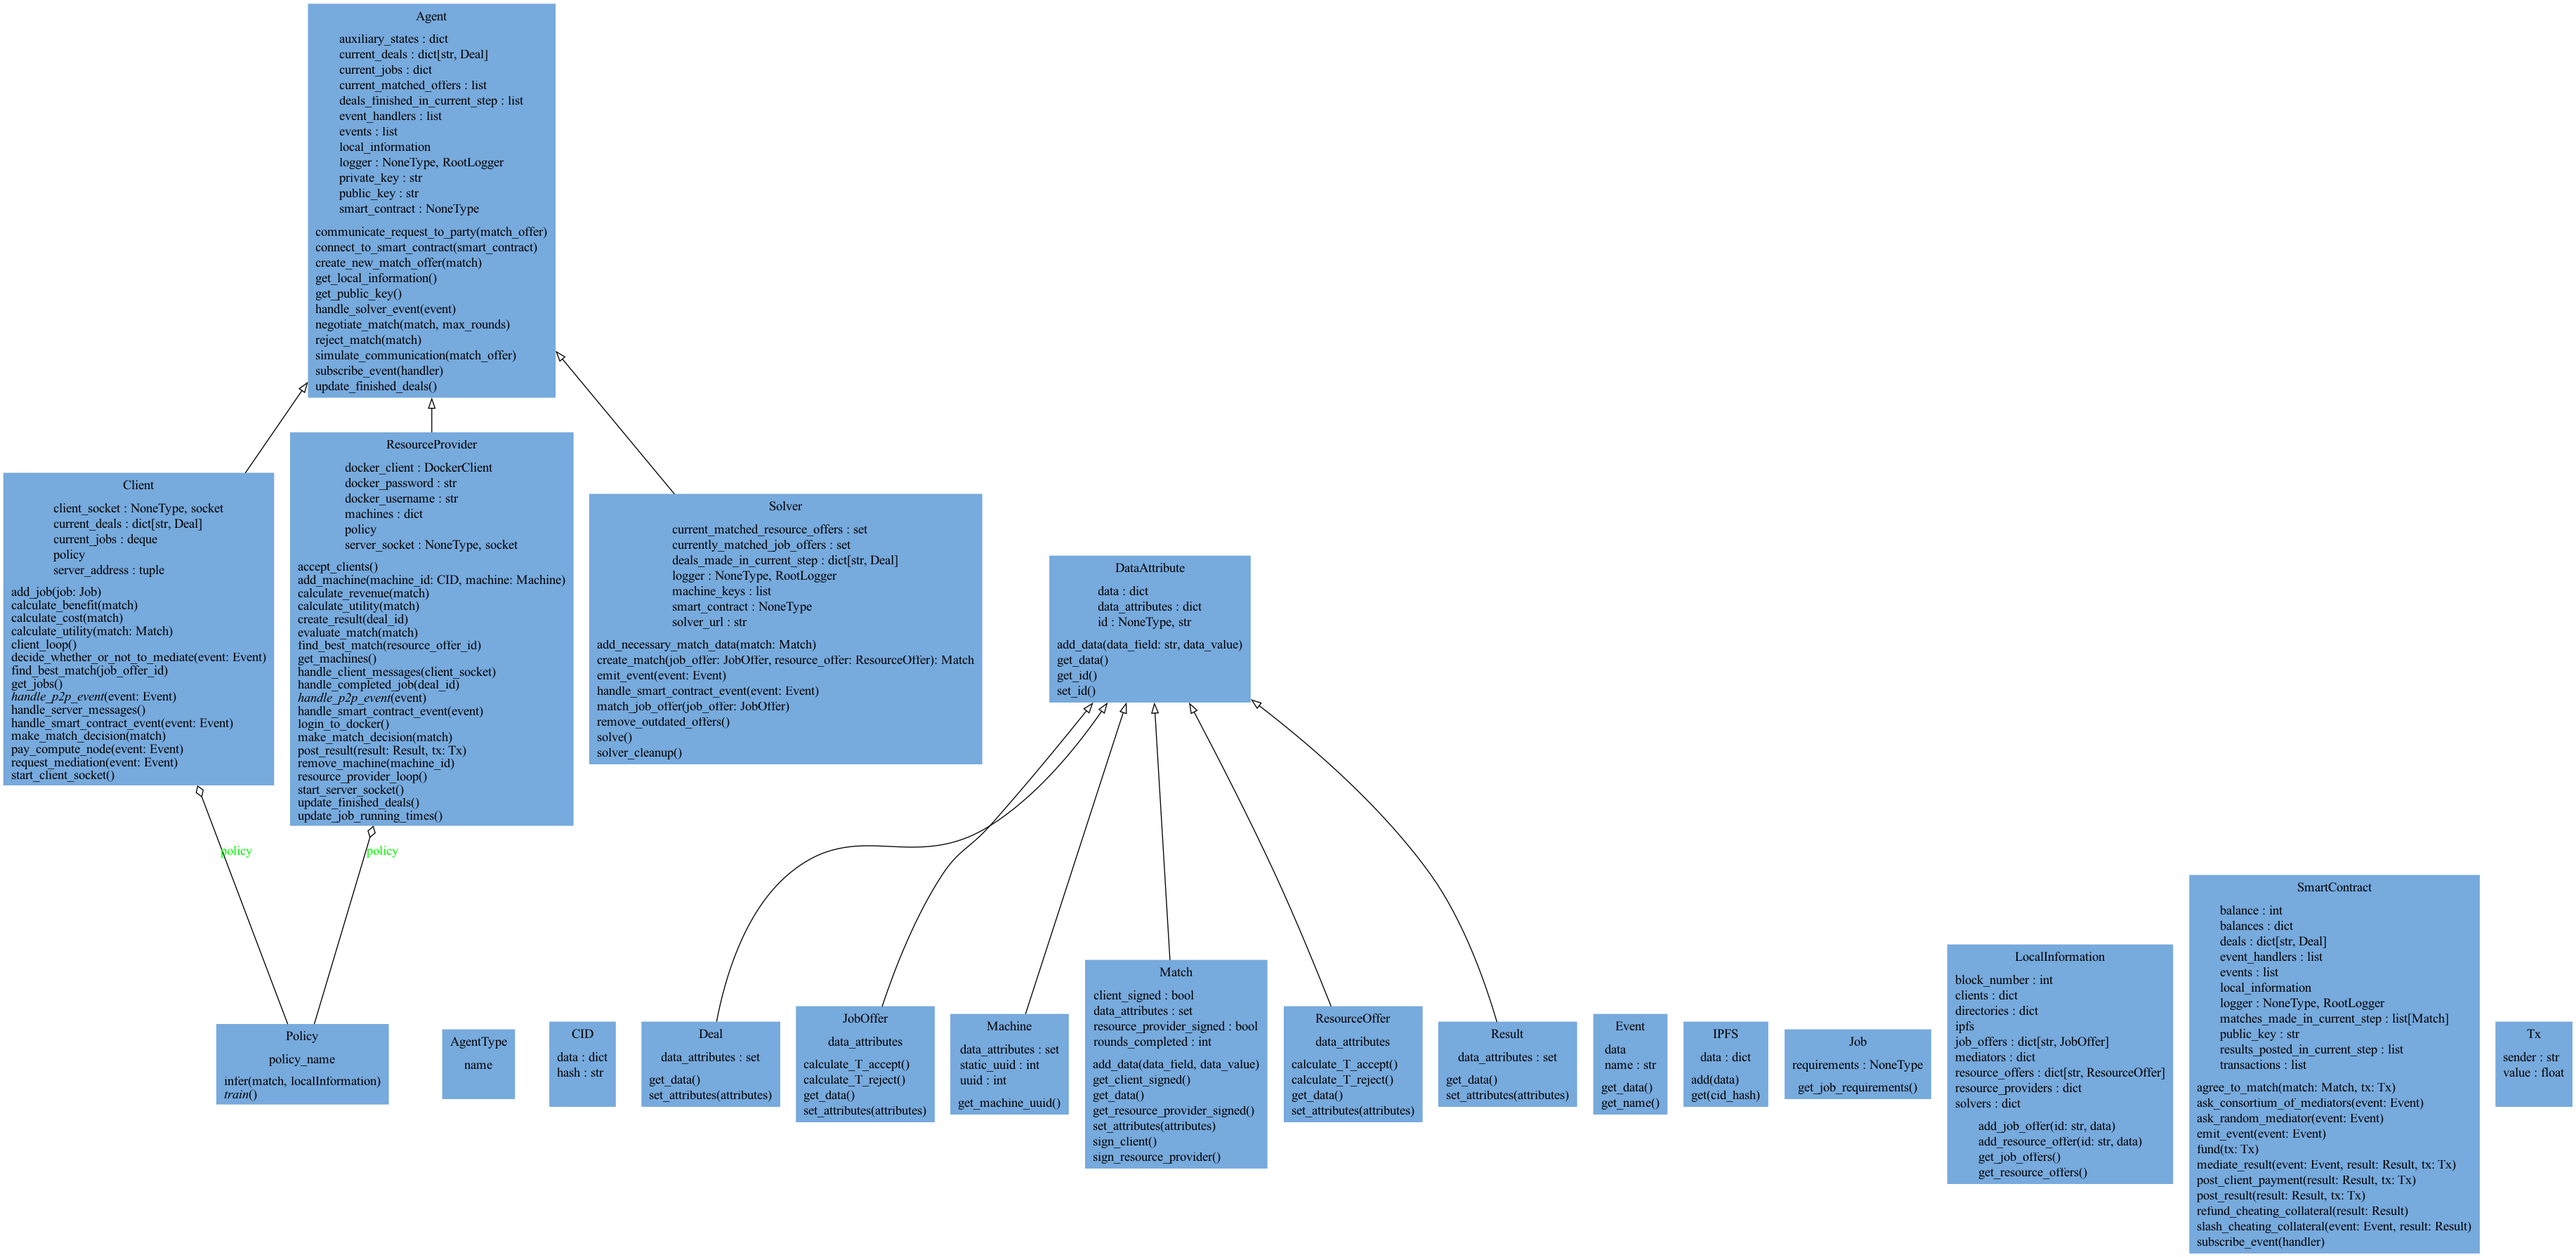
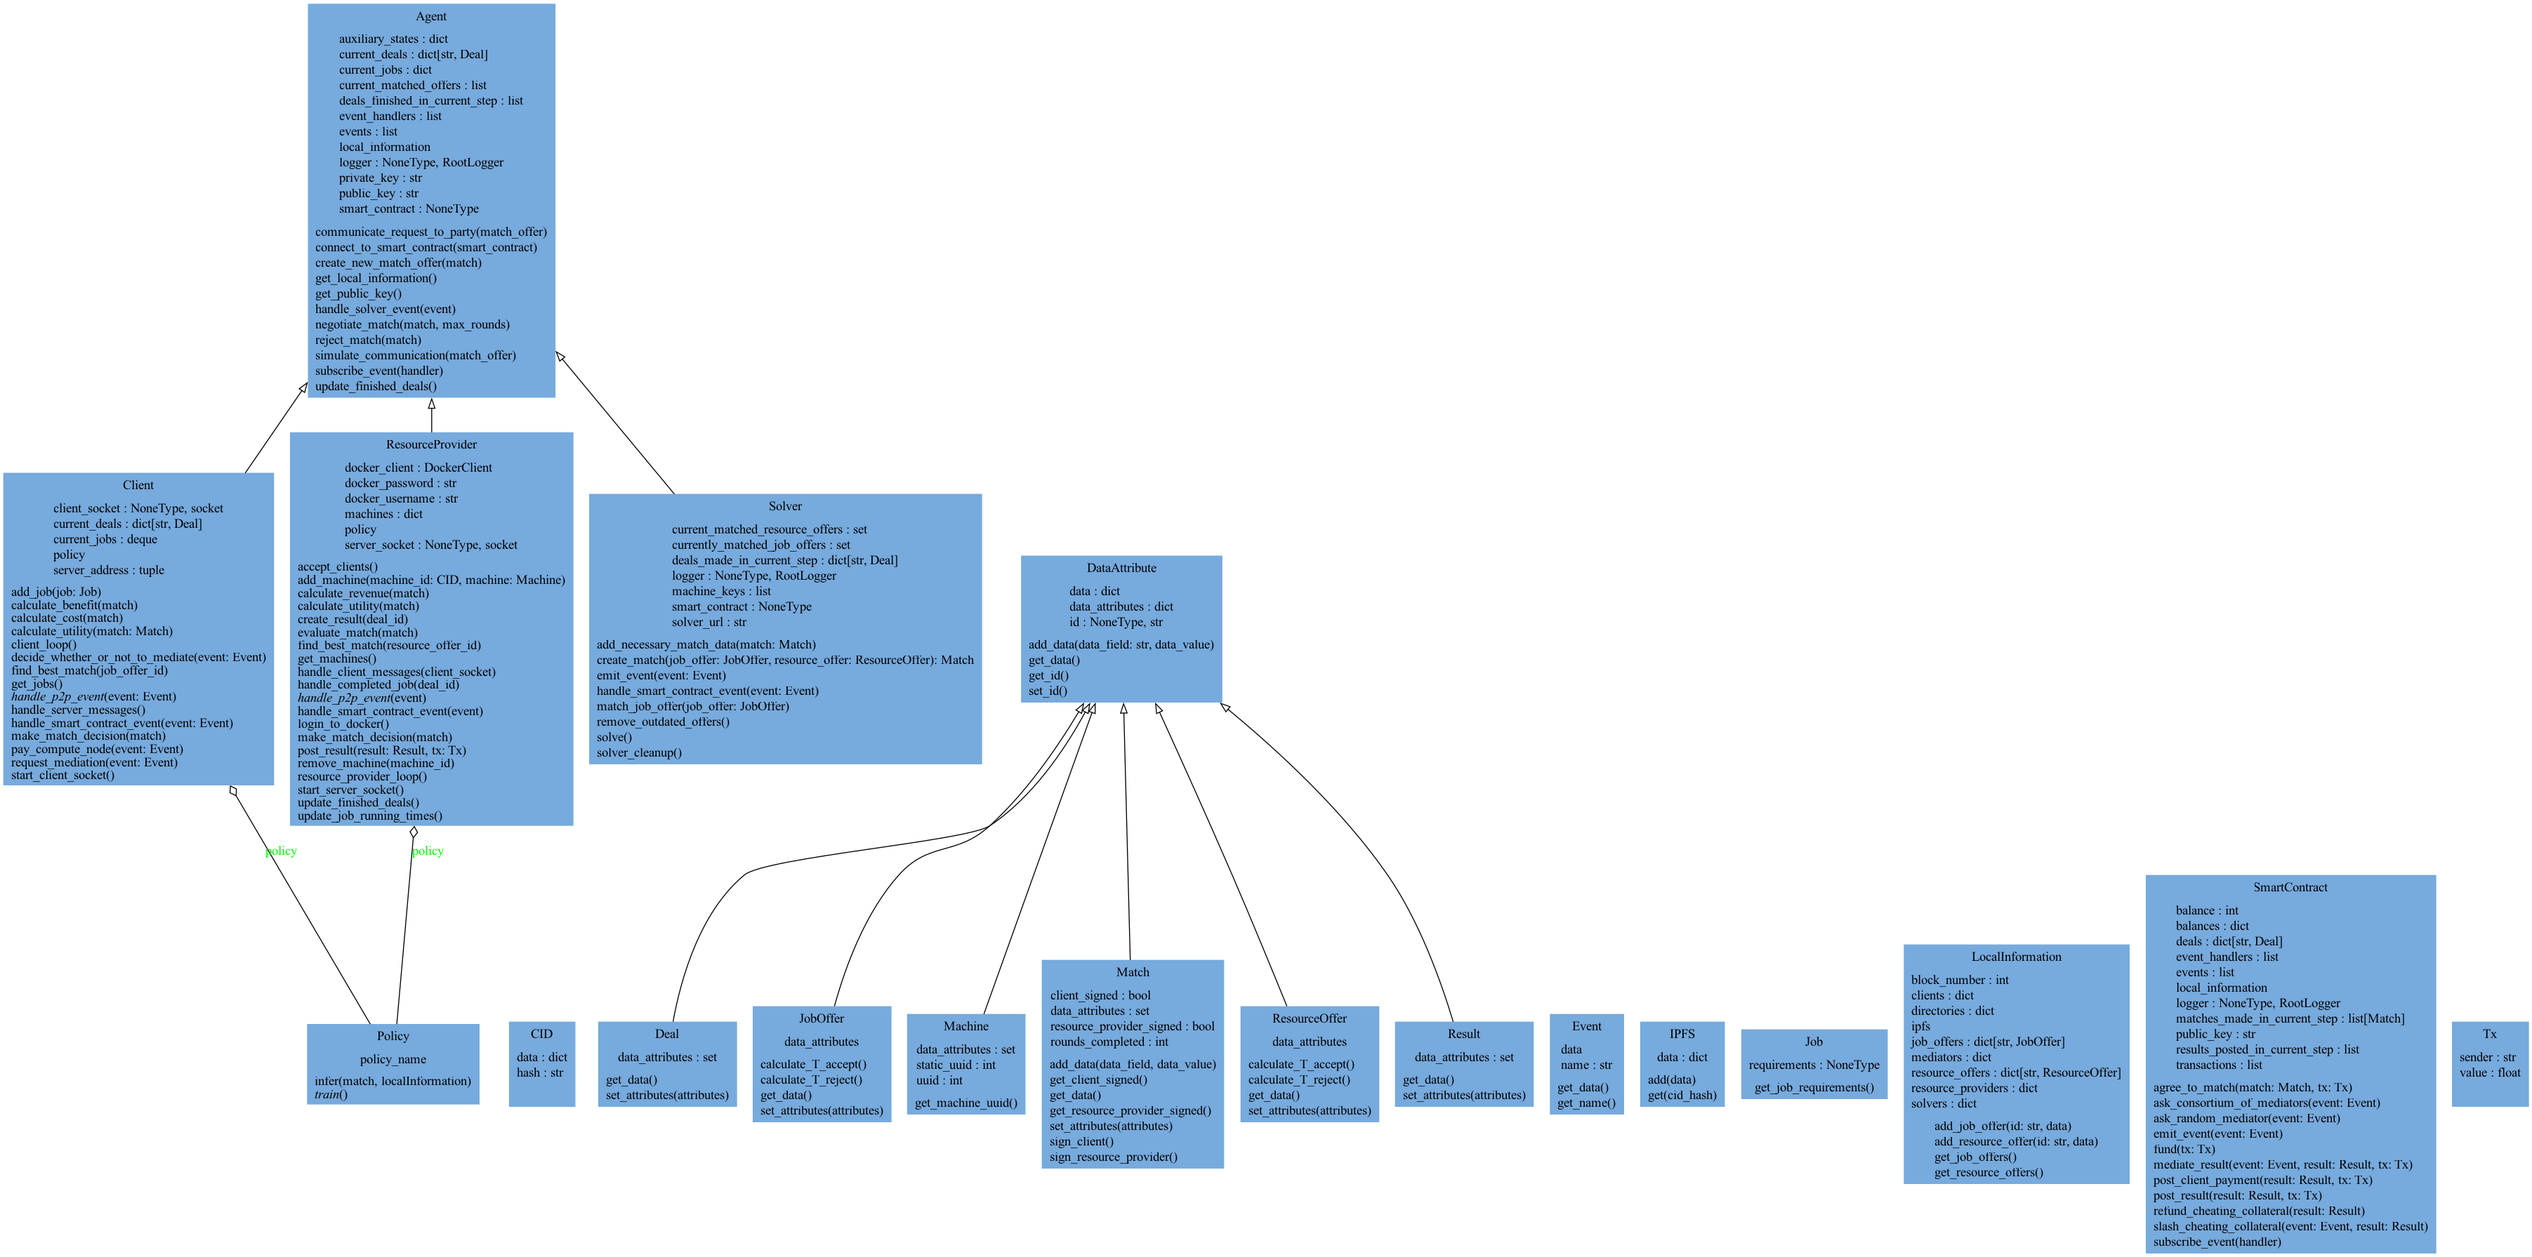
fix: closes #50

diff --git a/coophive/utils.py b/coophive/utils.py
@@ -3,16 +3,6 @@
 import hashlib
 import json
 from dataclasses import dataclass
-from enum import Enum
-
-
-class AgentType(Enum):
-    """Enumeration of different agent types available in the CoopHive ecosystem."""
-
-    RESOURCE_PROVIDER = 1
-    CLIENT = 2
-    SOLVER = 3
-    VALIDATOR = 4
 
 
 @dataclass
